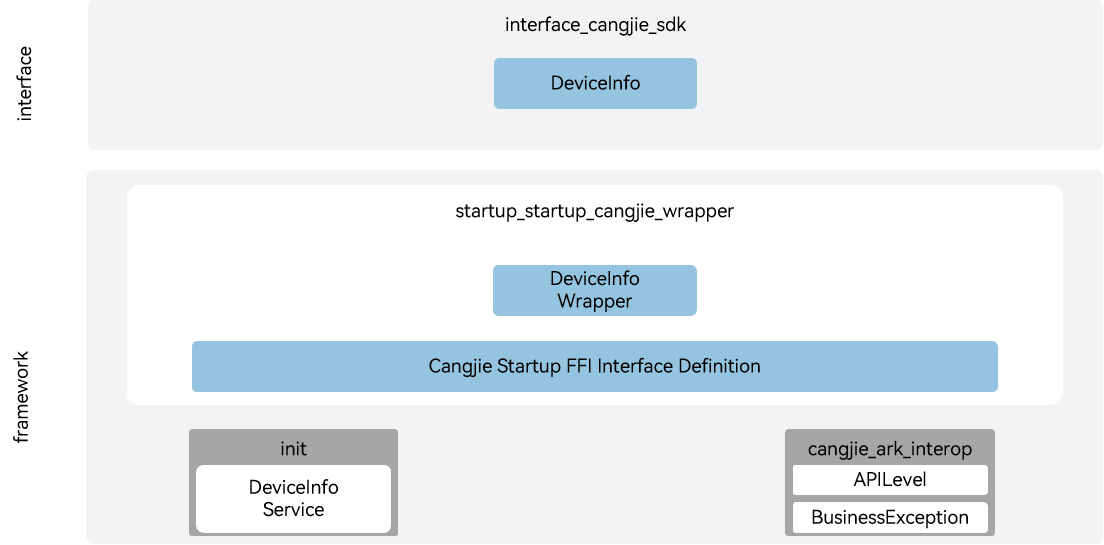
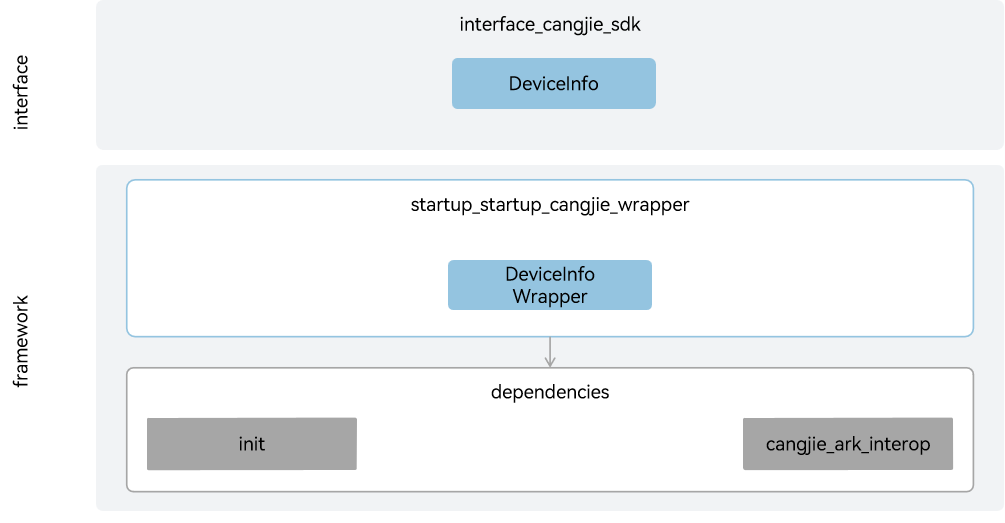
fix readme

diff --git a/README.md b/README.md
@@ -2,7 +2,7 @@
 
 ## Introduction
 
-The startup_startup_cangjie_wrapper is a Cangjie API encapsulated on OpenHarmony based on the capabilities of the startup subsystem. The startup subsystem is mainly responsible for the startup process of key system processes and services after the kernel is started and before the application is started. The currently open startup Cangjie API only supports standard devices.
+The startup_startup_cangjie_wrapper is a device information query service provided for developers to conduct application development using the Cangjie language on OpenHarmony. The currently open startup_startup_cangjie_wrapper only supports standard devices.
 
 ## System Architecture
 
@@ -10,12 +10,17 @@ The startup_startup_cangjie_wrapper is a Cangjie API encapsulated on OpenHarmony
 
 ![startup_cangjie_wrapper architecture](figures/startup_cangjie_wrapper_architecture_en.png)
 
-As shown in the architecture diagram, the current startup Cangjie API provides device information services:
+As shown in the architecture diagram, the current startup_startup_cangjie_wrapper provides device information services:
 
-- DeviceInfo: Mainly includes OHOS fixed-value parameters, manufacturer fixed-value parameters, and manufacturer dynamic parameters.
-- Cangjie Startup FFI Interface Definition: Responsible for defining C interoperation Cangjie interfaces, used to implement Cangjie startup capabilities.
-- init: Responsible for providing device information SA services, encapsulating C interfaces for interoperation with Cangjie.
-- cangjie_ark_interop: Provides Cangjie annotation definitions for API annotation and BusinessException exception class definition for user-facing exceptions.
+Interface Layer：
+- DeviceInfo: Provides developers with the capability to query device information. The device information mainly includes OHOS fixed-value parameters, manufacturer fixed-value parameters, and manufacturer dynamic parameters.
+
+Framework Layer：
+- DeviceInfo Wrapper: It is the encapsulation of device information functions implemented based on the device information SA service provided by the underlying init. It provides device type information, device manufacturer information, system software API version information, and device UDID information, etc.
+
+Dependency Components Introduction in Architecture:
+- init: Relies on the device information SA service provided by the init for querying device information.
+- cangjie_ark_interop: Depends on APILevel class definitions and BusinessException class definitions for API annotation and throwing exceptions to users in error branches.
 
 ## Directory Structure
 
@@ -30,9 +35,13 @@ base/startup/startup_cangjie_wrapper
 
 ## Usage
 
-The current startup Cangjie API mainly provides device information services.
+The current startup_startup_cangjie_wrapper mainly provides device information services.
 
 For startup related APIs, please refer to [ohos.device_info (Device Information)](https://gitcode.com/openharmony-sig/arkcompiler_cangjie_ark_interop/blob/master/doc/API_Reference/source_en/apis/BasicServicesKit/cj-apis-device_info.md).
+
+## Constraints
+
+To obtain the device serial number information, the ohos.permission.sec.ACCESS_UDID permission is required (this permission is only available for system applications and enterprise custom applications to apply for).
 
 ## Code Contribution
 

diff --git a/README_zh.md b/README_zh.md
@@ -1,8 +1,8 @@
-# 启动恢复仓颉接口
+# 启动恢复仓颉封装
 
 ## 简介
 
-启动恢复仓颉接口是在OpenHarmony上基于启动恢复子系统能力之上封装的仓颉API。启动恢复主要负责在内核启动之后到应用启动之前系统关键进程和服务的启动过程。当前开放的启动恢复仓颉接口仅支持standard设备。
+启动恢复仓颉封装是在OpenHarmony上面向开发者使用仓颉语言进行应用开发时提供的设备信息查询服务。当前开放的启动恢复仓颉封装仅支持standard设备。
 
 ## 系统架构
 
@@ -10,12 +10,20 @@
 
 ![启动恢复仓颉架构图](figures/startup_cangjie_wrapper_architecture_zh.png)
 
-如架构图所示，当前启动恢复仓颉接口提供设备信息服务:
+如架构图所示，当前启动恢复仓颉封装提供设备信息服务:
 
-- 设备信息：主要包括OHOS固定值参数、厂商固定值参数以及厂商动态参数。
-- 仓颉启动恢复FFI接口定义：负责定义C语言互操作仓颉接口，用于实现仓颉启动恢复能力。
-- 启动引导部件：负责提供设备信息SA服务，封装C语言接口提供给仓颉进行互操作。
-- cangjie_ark_interop：负责提供仓颉注解定义，用于对API进行标注，以及提供抛向用户的BusinessException异常类定义。
+接口层：
+
+- 设备信息：面向开发者提供设备信息查询能力，设备信息主要包括OHOS固定值参数、厂商固定值参数以及厂商动态参数。
+
+框架层：
+
+- 设备信息功能封装：基于底层启动子系统提供的设备信息SA服务，实现设备类型信息、设备生产厂家信息、系统软件API版本信息以及设备udid信息等的查询能力。
+
+架构图中依赖部件引入说明：
+- 启动子系统：依赖启动子系统提供设备信息SA服务，用于设备信息的查询。
+- cangjie_ark_interop：依赖cangjie_ark_interop提供的仓颉注解类定义和BusinessException异常类定义，用于对API进行标注，及在错误分支向用户抛出异常。
+
 
 ## 目录
 
@@ -30,11 +38,15 @@ base/startup/startup_cangjie_wrapper
 
 ## 使用说明
 
-当前启动恢复仓颉接口提供以下能力：
+当前启动恢复仓颉封装提供以下能力：
 
 - 获取设备信息。
 
 启动恢复相关接口请参见[设备信息API文档](https://gitcode.com/openharmony-sig/arkcompiler_cangjie_ark_interop/blob/master/doc/API_Reference/source_zh_cn/apis/BasicServicesKit/cj-apis-device_info.md)。
+
+## 约束
+
+获取设备序列号信息，需要ohos.permission.sec.ACCESS_UDID(该权限只允许系统应用及企业定制应用申请)。
 
 ## 参与贡献
 
